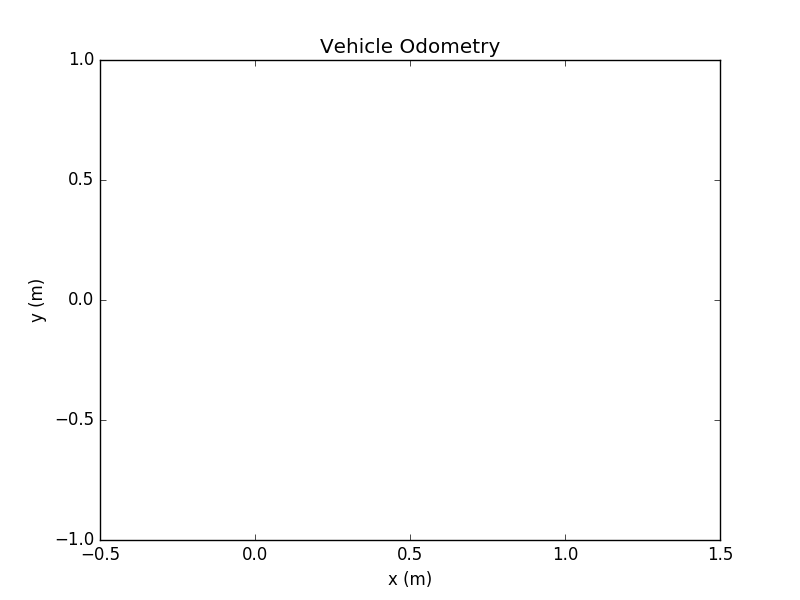
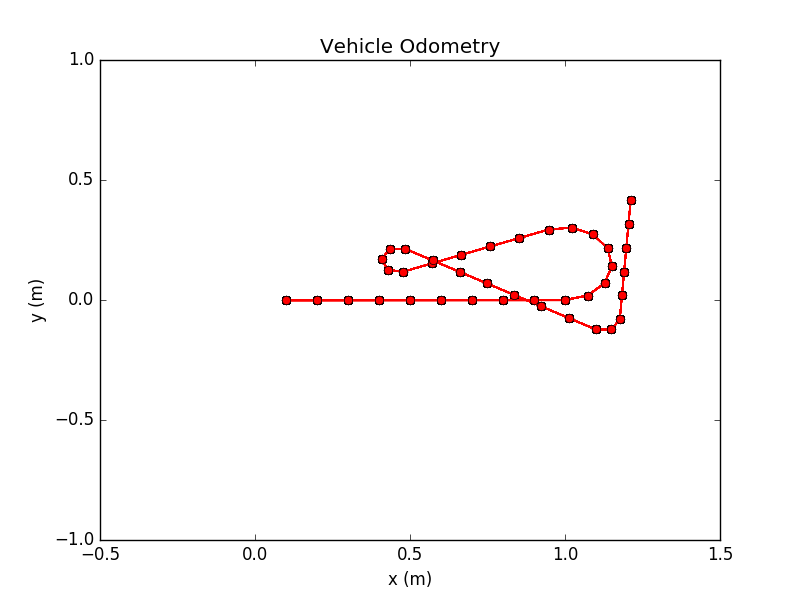
comitting homework6

Changed region(s): [[0.3438, 0.33, 0.8125, 0.57], [0.5938, 0.39, 0.6562, 0.42]]

diff --git a/robotics_assignments/homework6/src/genodo.py b/robotics_assignments/homework6/src/genodo.py
@@ -1,17 +1,36 @@
 #!/usr/bin/env python
 
+from math import sin,cos,pi
 import rospy
+from geometry_msgs.msg import Vector3
+import matplotlib.pyplot as plt
 from odometry_hw.msg import *
 import time
 import random 
 
+xval = 0.0
+yval = 0.0
+stheta = 0.0
 def callback(data):
+        global xval
+        global yval
+        global pub
+        global stheta
         pose = Pose2D()
-        pose.x = data.dist_wheel_left
-        pose.y = data.dist_wheel_right
-        pose.x = xval+0.1
-        pose.y = yval+0.1
-        pose.theta =  random.uniform(0.0,90.0)   
+        left = data.dist_wheel_left
+        right = data.dist_wheel_right
+        delTheta = 0.0
+        delS = (left+right)/2
+        alpha = (right-left)/0.1
+        delTheta = alpha
+        delX = delS *(cos(stheta + delTheta/2))
+        delY = delS *(sin(stheta + delTheta/2))
+        xval = xval + delX
+        yval = yval + delY
+        stheta = stheta + delTheta
+        pose.x = xval
+        pose.y = yval
+        pose.theta = stheta
         rospy.loginfo(rospy.get_caller_id() + "entered callback")
         pub.publish(pose)
 
